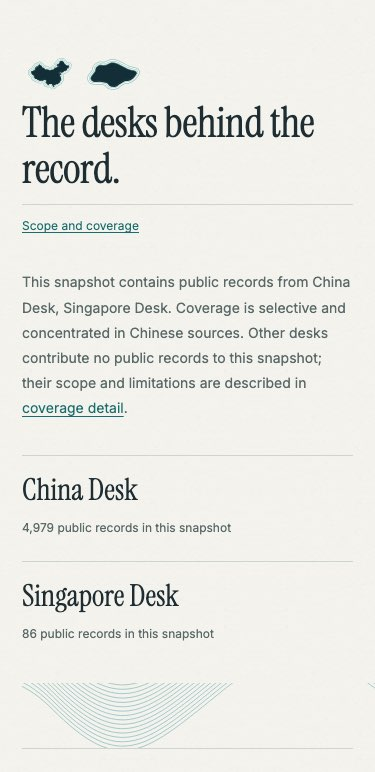
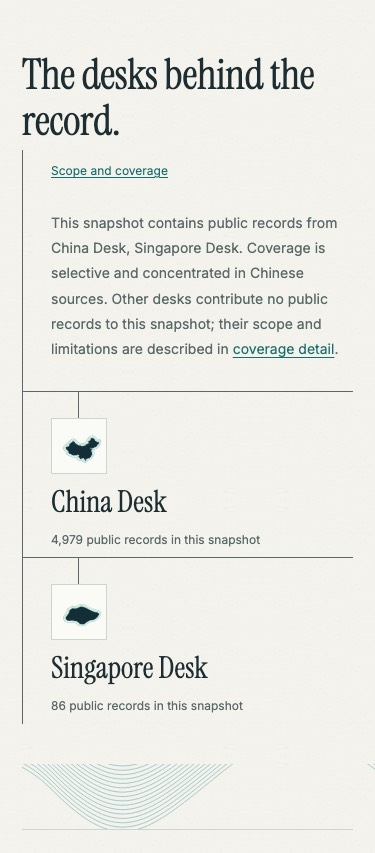
feat(frontend): Phase 2 home review revision — record plates, analysis planes, desk tree
- Record geography plates 96/64/52 px (desktop / <=600 / <=380).
- Both Latest Analysis planes: navy paper, hairline edge, hard offset
  under-plate via ::before; no box-shadow, crimson on the Brief plane only.
- Each contributing desk card hangs from the desks heading by a static
  border spine to its own silhouette; forced colours map to CanvasText.
- Evidence retaken at 320/375/768/1280 plus focus, forced colours, no-JS
  and 200% zoom; README, DECISION_LOG and PROJECT_STATE updated.

Changed region(s): [[0.0587, 0.0622, 0.9387, 0.8394], [0.0587, 0.8705, 0.616, 0.9948], [0.9973, 0.8705, 1.0, 0.9016]]

diff --git a/site/preview/home.css b/site/preview/home.css
@@ -126,21 +126,36 @@
 .home-page .home-search .btn.tactile:active{background:#0b1d24;border-color:#0b1d24}
 @media(prefers-reduced-motion:reduce){[data-surface] .home-page :is(.btn,button):not(:disabled):active{transform:none}}
 .home-recent .record-list{display:grid;gap:22px}
-.home-recent .record-row.home-card{display:grid;grid-template-columns:64px minmax(0,1fr);gap:8px 22px;align-items:start;width:88%;padding:22px 26px 20px 22px;background:var(--surface);border:1px solid var(--rule);border-top:2px solid var(--accent)}
+.home-recent .record-row.home-card{display:grid;grid-template-columns:96px minmax(0,1fr);gap:8px 26px;align-items:start;width:90%;padding:24px 28px 22px 24px;background:var(--surface);border:1px solid var(--rule);border-top:2px solid var(--accent)}
 .home-recent .home-card:nth-child(even){margin-left:auto}
-.home-card>.rl-emblem{grid-row:span 2;width:64px;height:64px}
+.home-card>.rl-emblem{grid-row:span 2;width:96px;height:96px;padding:5px;background:var(--surface-inset);border:1px solid var(--rule);box-sizing:border-box}
 .home-card>div,.home-card>.row-side{grid-column:2}
 .home-card-date{font:12px/1.5 var(--sans);color:var(--muted);margin:0 0 6px}
 .home-recent .home-card .row-side a{display:inline-flex;align-items:center;min-height:24px}
-.home-latest-analysis.rl-analysis{padding:38px 40px 36px}
+/* The two inner planes: lighter navy paper on the band, a hairline edge and a hard
+   offset under-plate (no shadow), so each reads as a sheet laid on the band. */
+.home-coast-inner{gap:64px}
+.home-coast-inner>:is(.home-latest-analysis,.home-analysis-second){position:relative;align-self:stretch;padding:38px 40px 36px;background:linear-gradient(#ffffff0e,#ffffff0e),var(--band) url('assets/material/navy-paper.png');border:1px solid #ffffff26}
+.home-latest-analysis.rl-analysis{border-top:3px solid var(--crimson)}
+.home-coast-inner>.home-analysis-second{align-self:center;border-top:3px solid #ffffff4d}
+.home-coast-inner>:is(.home-latest-analysis,.home-analysis-second)::before{content:'';position:absolute;inset:10px -10px -10px 10px;z-index:-1;background:#081a20;border:1px solid #ffffff14;pointer-events:none}
 .home-analysis-geo{display:grid;grid-template-columns:minmax(0,190px) minmax(0,1fr);gap:22px;align-items:end;margin:32px 0 0;padding-top:24px;border-top:1px solid #ffffff25}
 .home-analysis-geo figcaption{font:11px/1.6 var(--sans);color:var(--band-muted)}
 .home-analysis-desks{display:flex;gap:10px;margin:0 0 12px}
 .home-analysis-desks .rl-emblem{width:auto;height:30px}
-.home-desks .home-section-head h2{display:flex;flex-wrap:wrap;align-items:center;gap:12px 20px}
-.home-desks .home-section-head h2::after{content:'';flex:1 1 60px;height:1px;background:var(--rule)}
-.home-desks-geo{display:inline-flex;align-items:center;gap:10px}
-.home-desks-geo .rl-emblem{width:auto;height:46px}
-.home-desk-list a{border-top:1px solid var(--rule);padding-top:16px}
-@media(max-width:600px){.home-finder.rl-finder{margin-top:-26px}.home-recent .record-row.home-card,.home-recent .home-card:nth-child(even){width:auto;margin-left:0;grid-template-columns:44px minmax(0,1fr);gap:6px 16px;padding:18px 16px}.home-card>.rl-emblem{width:44px;height:44px}.home-latest-analysis.rl-analysis{padding:30px 20px 28px}.home-analysis-geo{grid-template-columns:minmax(0,1fr)}.home-analysis-geo .rl-strait{max-width:220px}.home-desks-geo .rl-emblem{height:36px}}
-@media(forced-colors:active){.home-desks .home-section-head h2::after{background:CanvasText}}
+/* Desk tree: a spine drops from the heading through the scope link and coverage
+   note; each contributing desk's card hangs from it by its top rule and a short
+   drop to the card's silhouette. Static borders only. */
+.home-desks .home-section-head h2{margin-bottom:0;padding-bottom:6px}
+.home-desks .home-section-head>a{display:block;width:fit-content}
+.home-desks .home-section-head>a,.home-desks>p.home-coverage-note,.home-desks .home-desk-list{border-left:1px solid var(--muted);padding-left:28px}
+.home-desks>p.home-coverage-note{margin:0;padding-block:18px 30px}
+.home-desks .home-desk-list{gap:0;padding-left:0}
+.home-desk-list a{position:relative;border-top:1px solid var(--muted);padding:26px 24px 8px 28px}
+.home-desk-list a::before{content:'';position:absolute;left:55px;top:0;height:26px;border-left:1px solid var(--muted)}
+.home-desk-list a .rl-emblem{width:56px;height:56px;padding:6px;box-sizing:border-box;background:var(--surface);border:1px solid var(--rule)}
+@media(max-width:600px){.home-finder.rl-finder{margin-top:-26px}.home-recent .record-row.home-card,.home-recent .home-card:nth-child(even){width:auto;margin-left:0;grid-template-columns:64px minmax(0,1fr);gap:6px 16px;padding:18px 16px}.home-card>.rl-emblem{width:64px;height:64px;padding:5px}.home-coast-inner>:is(.home-latest-analysis,.home-analysis-second){padding:30px 20px 28px}.home-coast-inner>:is(.home-latest-analysis,.home-analysis-second)::before{inset:8px -6px -8px 6px}.home-analysis-geo{grid-template-columns:minmax(0,1fr)}.home-analysis-geo .rl-strait{max-width:220px}.home-desk-list a{flex-basis:100%}}
+@media(max-width:380px){.home-recent .record-row.home-card,.home-recent .home-card:nth-child(even){grid-template-columns:52px minmax(0,1fr);gap:6px 14px;padding:16px 14px}.home-card>.rl-emblem{width:52px;height:52px;padding:4px}}
+@media print,(forced-colors:active){.home-coast-inner>:is(.home-latest-analysis,.home-analysis-second)::before{display:none}.home-coast-inner>:is(.home-latest-analysis,.home-analysis-second){background:Canvas;border:1px solid CanvasText}}
+@media(forced-colors:active){.home-desks .home-section-head>a,.home-desks>p.home-coverage-note,.home-desks .home-desk-list,.home-desk-list a,.home-desk-list a::before{border-color:CanvasText}}
+@media(max-width:900px){.home-coast-inner{gap:40px}}

diff --git a/site/preview/templates/home.html b/site/preview/templates/home.html
@@ -72,6 +72,6 @@
   <div class="home-brief-copy"><p class="evidence evidence--analysis">Human-controlled analysis</p><p class="home-small-label">{{ collection_name }} · No. {{ photo_brief.issue }}</p><h2 id="brief-home-title"><a href="{{ photo_brief.url }}">{{ photo_brief.title }}</a></h2><p>{{ photo_brief.dek }}</p><p class="meta">{{ photo_brief.author_name }}<br>Week ending {{ photo_brief.date | reader_date }}{% if photo_brief.is_retrospective %} · {{ photo_brief.retrospective_label }}{% endif %}</p><a class="text-link" href="{{ photo_brief.url }}">Read the Brief</a></div>
 </section>
 {% endif %}
-<section class="wrap home-desks" aria-labelledby="home-desks-title"><div class="home-section-head"><h2 id="home-desks-title"><span class="home-desks-geo">{% for d in desks if d.record_count %}{{ relief.emblem(d.slug, seat=false) }}{% endfor %}</span>The desks behind the record.</h2><a href="coverage.html">Scope and coverage</a></div><p class="home-coverage-note">This snapshot contains public records from {% for d in desks if d.record_count %}{{ d.name }}{% if not loop.last %}, {% endif %}{% endfor %}. Coverage is selective and concentrated in Chinese sources. Other desks contribute no public records to this snapshot; their scope and limitations are described in <a href="coverage.html">coverage detail</a>.</p><div class="home-desk-list">{% for d in desks if d.record_count %}<a href="{{ d.route }}">{{ d.name }}<span>{{ d.record_count | count }} public records in this snapshot</span></a>{% endfor %}</div></section>
+<section class="wrap home-desks" aria-labelledby="home-desks-title"><div class="home-section-head"><h2 id="home-desks-title">The desks behind the record.</h2><a href="coverage.html">Scope and coverage</a></div><p class="home-coverage-note">This snapshot contains public records from {% for d in desks if d.record_count %}{{ d.name }}{% if not loop.last %}, {% endif %}{% endfor %}. Coverage is selective and concentrated in Chinese sources. Other desks contribute no public records to this snapshot; their scope and limitations are described in <a href="coverage.html">coverage detail</a>.</p><div class="home-desk-list">{% for d in desks if d.record_count %}<a href="{{ d.route }}">{{ relief.emblem(d.slug, seat=false, draws=false) }}{{ d.name }}<span>{{ d.record_count | count }} public records in this snapshot</span></a>{% endfor %}</div></section>
 <section class="wrap home-method"><h2>Evidence first. Interpretation labeled.</h2><p>Each record preserves its original title, available source text, source-stated date, and URL. Machine translations and summaries are labeled; machine output is published without human review and can be wrong. Briefs make human judgments with a visible source trail.</p><a href="methodology.html">How this publication works</a></section>
 {% endblock %}

diff --git a/docs/evidence/frontend-home-phase2-2026-10-11/README.md b/docs/evidence/frontend-home-phase2-2026-10-11/README.md
@@ -10,8 +10,8 @@ This phase covers **the homepage only**. It links the Phase 1 relief primitives 
 
 | Path | Change |
 |---|---|
-| `site/preview/templates/home.html` | **Imports and stylesheet.** Imports `_relief.html` and links `relief.css` before `home.css`.<br>**Finder.** Gains `rl-finder`, and its input and button gain `.tactile`.<br>**Record cards.** The latest-4 list uses a home-only `home_card` macro. It has the `record_row` fields and order, plus the source-stated `<time>` and the desk emblem. `record_row` is untouched.<br>**Analysis band.** Gains `rl-analysis`, the lead Brief's own desk emblems, and the Singapore Strait figure **only when the lead Brief's `desks` include `singapore`**.<br>**Desks heading.** Gains emblems for `desks if d.record_count`, the same predicate as the list. |
-| `site/preview/home.css` | Adds 27 lines of page layout for the relief surfaces. It adds no `box-shadow`, and its lift comes only from `relief.css`.<br>Adds the reduced-motion press fix, `[data-surface] .home-page :is(.btn,button):not(:disabled):active{transform:none}`. |
+| `site/preview/templates/home.html` | **Imports and stylesheet.** Imports `_relief.html` and links `relief.css` before `home.css`.<br>**Finder.** Gains `rl-finder`, and its input and button gain `.tactile`.<br>**Record cards.** The latest-4 list uses a home-only `home_card` macro. It has the `record_row` fields and order, plus the source-stated `<time>` and the desk emblem. `record_row` is untouched.<br>**Analysis band.** Gains `rl-analysis`, the lead Brief's own desk emblems, and the Singapore Strait figure **only when the lead Brief's `desks` include `singapore`**.<br>**Desk list.** Each `desks if d.record_count` card begins with that desk's silhouette (`aria-hidden`). The heading carries no emblems. |
+| `site/preview/home.css` | Adds 42 lines of page layout for the relief surfaces. It adds no `box-shadow`, and its lift comes only from `relief.css`.<br>**Review revision.** Record geography plates are 96 px on desktop, 64 px at ≤600 px and 52 px at ≤380 px.<br>Both analysis planes are lighter navy paper with a hairline edge and a hard offset under-plate drawn by `::before` (no shadow). Crimson tops the Brief plane only.<br>A static border spine runs from the desks heading through the scope link and coverage note to a rule, with a short drop to each desk card's silhouette. It maps to `CanvasText` in forced colours.<br>Adds the reduced-motion press fix, `[data-surface] .home-page :is(.btn,button):not(:disabled):active{transform:none}`. |
 | `site/preview/generate_preview.py` | **Production build.** Copies `relief.css` plus `RELIEF_PRODUCTION_ASSETS = (assets/geo/emblems.svg, assets/geo/strait.svg)` byte-for-byte. Exposes the receipt's symbol boxes to templates.<br>**Excluded from production.** Flags, glyphs, `region.svg`, the receipt and `gallery-relief.html`. These remain `--gallery`-only. |
 | `tests/test_relief_primitives.py` | **Isolation test updated, not deleted.** The Phase 1 isolation test becomes a positive, page-scoped allowlist: `home.html` may reference only `relief.css`, `_relief.html`, `rl-finder`, `rl-card` and `rl-analysis`, and only the `emblem` and `strait` macros.<br>**Unchanged guards.** Stylesheets and both base templates stay out, and the B1 six-surface shadow audit is unchanged.<br>**New tests.** Production-asset tests check byte identity, sprite allowlist, `<use>` resolution, link order and `aria-hidden`. They also check that the timeline branch survives beside the strait. A strait-scope test shows that a China-only lead Brief gets no strait. The Phase 1 gallery build tests are kept. The file now has 28 tests. |
 
@@ -48,9 +48,9 @@ Zero JavaScript was added: page scripts remain `intro.js` and `shell.js` at 31,7
 
 | Measure | Baseline | Candidate | Cap |
 |---|---|---|---|
-| HTML (`index.html`) | 14,840 | 17,071 | — |
-| `home.css` | 14,921 | 17,598 | — |
-| HTML + CSS | 67,795 | 76,734 | 300,000 delivery / 120,000 integrity |
+| HTML (`index.html`) | 14,840 | 17,017 | — |
+| `home.css` | 14,921 | 19,810 | — |
+| HTML + CSS | 67,795 | 78,892 | 300,000 delivery / 120,000 integrity |
 | JS | 11,940 | 11,940 | 12,000 |
 | SVG sprites fetched via `<use>` | 0 | 35,476 | not counted by `asset_bytes` (2,618,405 both) |
 
@@ -67,15 +67,19 @@ The tool is `tools/home_evidence.py`, which uses Playwright Chromium from `.venv
   - `html.no-anim` runs no relief animation.
   - Forced colours, print, keyboard focus, no-JS and 200% zoom are all exercised.
 
-The `81.cn` record photographs are masked in every shot.
+The `81.cn` record photographs are masked in every shot. The magenta masks are an evidence-only screenshot overlay and are not part of the page.
+
+**Review revision.** The shots were retaken at the revised head with the same 32 checks and 0 failures.
+- **320 px:** page `scrollWidth` is 320, and record plates are 52 px. The plates' only overhang is the decorative under-plate offset, with no text overflow.
+- **Content parity with the first candidate:** every check field is identical except desk-link heights, which are taller because each card now holds a silhouette.
 
 | Section | Before | After |
 |---|---|---|
 | Finder 375/768/1280 | `shots/before-finder-*.jpg` | `shots/after-finder-*.jpg` |
-| Records 375/768/1280 | `shots/before-records-*.jpg` | `shots/after-records-*.jpg` |
-| Analysis 375/768/1280 | `shots/before-analysis-*.jpg` | `shots/after-analysis-*.jpg` |
+| Records 320/375/768/1280 | `shots/before-records-*.jpg` | `shots/after-records-*.jpg` |
+| Analysis 320/375/768/1280 | `shots/before-analysis-*.jpg` | `shots/after-analysis-*.jpg` |
 | Photo Brief 375/768/1280 | `shots/before-photo-brief-*.jpg` | `shots/after-photo-brief-*.jpg` |
-| Desks 375/768/1280 | `shots/before-desks-*.jpg` | `shots/after-desks-*.jpg` |
+| Desks 320/375/768/1280 | `shots/before-desks-*.jpg` | `shots/after-desks-*.jpg` |
 | Full page 375/1280 | `shots/before-full-*.jpg` | `shots/after-full-*.jpg` |
 | Focus (input, button) | `shots/before-focus-*.jpg` | `shots/after-focus-*.jpg` |
 | Forced colours | `shots/before-forced-colors-1280.jpg` | `shots/after-forced-colors-{375,1280}.jpg` |
@@ -97,6 +101,6 @@ The `81.cn` record photographs are masked in every shot.
   - No fixed relief appears on unrelated content.
 - **Analysis-band emblems are the lead Brief's own `desks`**, the countries it analyses, not a coverage claim. A Brief listing a non-collecting desk would show that desk's emblem there; today's lead lists China and Singapore.
 - **`rl-settles` dropped** from the second analysis plane. The timeline/Briefs column keeps its existing layout.
-- **Desk-list cards carry no emblem.** The emblems sit in the heading only, to keep the list's link targets and counts unchanged.
+- **Desk-list cards carry their own silhouette.** It is inside the existing link, so link targets, names, counts and the coverage note are unchanged. Desks without public records get no card and no silhouette.
 - **Overlap with open PRs.** PRs #314 and #323 touch `home.html`, `generate_preview.py` and `base.html`. None of their changes are included here, and a later rebase of either will conflict.
 - **Untested browsers.** Only Chromium was exercised. Safari, Firefox and real assistive technology were not.

diff --git a/DECISION_LOG.md b/DECISION_LOG.md
@@ -28,11 +28,26 @@ changes. Evidence is in `docs/evidence/frontend-home-phase2-2026-10-11/`.
   make no collection claim. A fixed relief is never placed beside unrelated
   analysis. The caption says it is decorative, not a navigation or boundary
   chart.
-- **`rl-settles` is not applied to the second analysis plane**, which keeps
-  its existing timeline/Briefs layout.
-- **Desk emblems sit in the desks heading only**, drawn from the same
-  `desks if d.record_count` predicate as the list; the list's link targets,
-  counts and caveats are unchanged.
+- **`rl-settles` is not applied to the second analysis plane.** Both
+  analysis planes stay static: no motion leaves their text dimmed.
+- **Review revision (PR #391): both analysis planes are dimensional without a
+  shadow.** Each is lighter navy paper on the band with a hairline edge and a
+  hard offset under-plate drawn by a `::before` border box. `box-shadow` stays
+  confined to the B1 surfaces. Crimson tops only the Brief plane. The
+  timeline/Briefs plane gets a neutral edge, so crimson stays reserved for
+  analysis.
+- **Review revision: desk silhouettes hang from the heading.** The desks
+  heading no longer carries emblems. A static hairline spine drops from
+  under "The desks behind the record." past the scope link and coverage note.
+  Each contributing desk's card (`desks if d.record_count`) hangs from it by
+  its top rule and a short drop to the card's own silhouette. The spine is
+  made only of borders, with no JS or motion, and it maps to `CanvasText` in
+  forced colours. Link targets, counts and caveats are unchanged; the
+  silhouettes are `aria-hidden`.
+- **Review revision: record geography is a 96 px plate** on desktop, 64 px
+  at 600 px and below, and 52 px at 380 px and below. The plate is
+  decorative; the record's desk link is the textual source of the
+  attribution.
 - **The inherited reduced-motion press is fixed on the homepage** by
   `[data-surface] .home-page :is(.btn,button):not(:disabled):active{transform:none}`
   under `prefers-reduced-motion: reduce`. Other pages keep the inherited

diff --git a/PROJECT_STATE.md b/PROJECT_STATE.md
@@ -1038,10 +1038,15 @@ test is now a page-scoped allowlist. Zero new JS; the reduced-motion 2 px
 press is fixed on the homepage. The Singapore Strait figure appears only when
 the lead Brief's desks include Singapore. Deviations are in `DECISION_LOG.md`
 (2026-10-11, Phase 2); evidence, budgets and the rights ledger are in
-`docs/evidence/frontend-home-phase2-2026-10-11/`. Not merged or deployed;
-independent review required. Open PRs #314/#323 overlap `home.html` and
-`generate_preview.py`. Next after merge: P3 (Archive/Briefs/Desks), in its
-own session.
+`docs/evidence/frontend-home-phase2-2026-10-11/`. The PR is
+VSSpowerlifting/China-Mil-Watch#391. It has been revised once after review:
+96 px record geography plates, two dimensional analysis planes, and desk cards
+hung from the desks heading by hairlines. It is not merged or deployed, and
+independent review is required. Open PRs #314/#323 overlap `home.html` and
+`generate_preview.py`. The sequence after merge, each phase in its own session:
+- Phase 2b Archive
+- Phase 3 Briefs
+- Phase 4 Desks
 
 ## 8. Prohibited shortcuts and human-review gates
 
